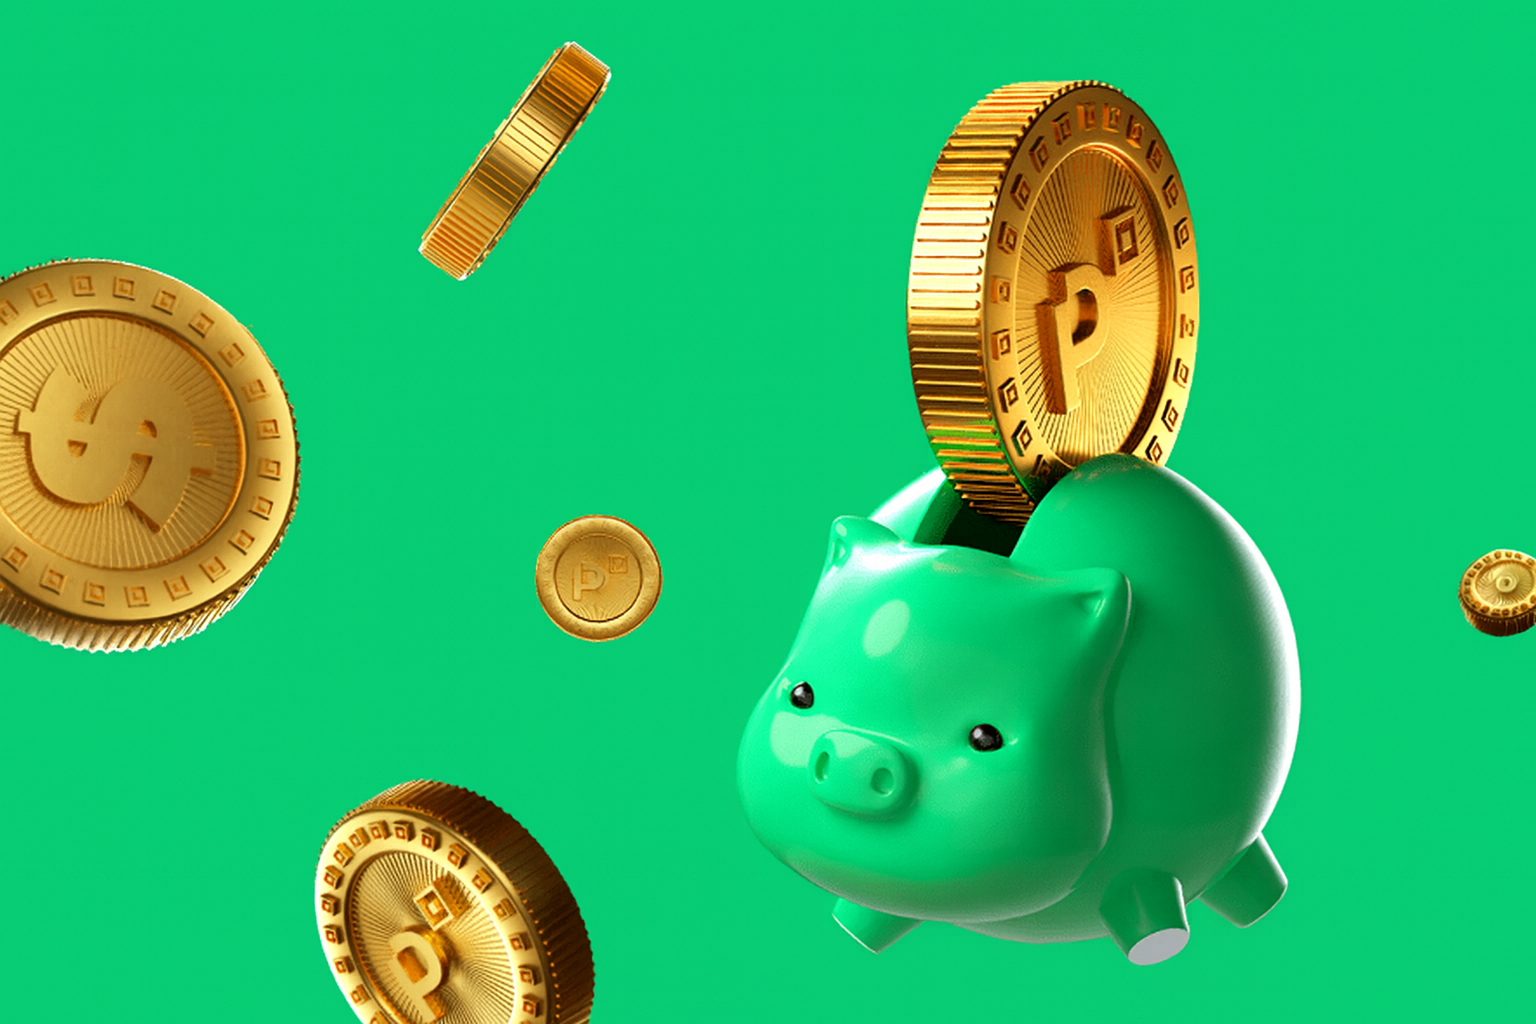
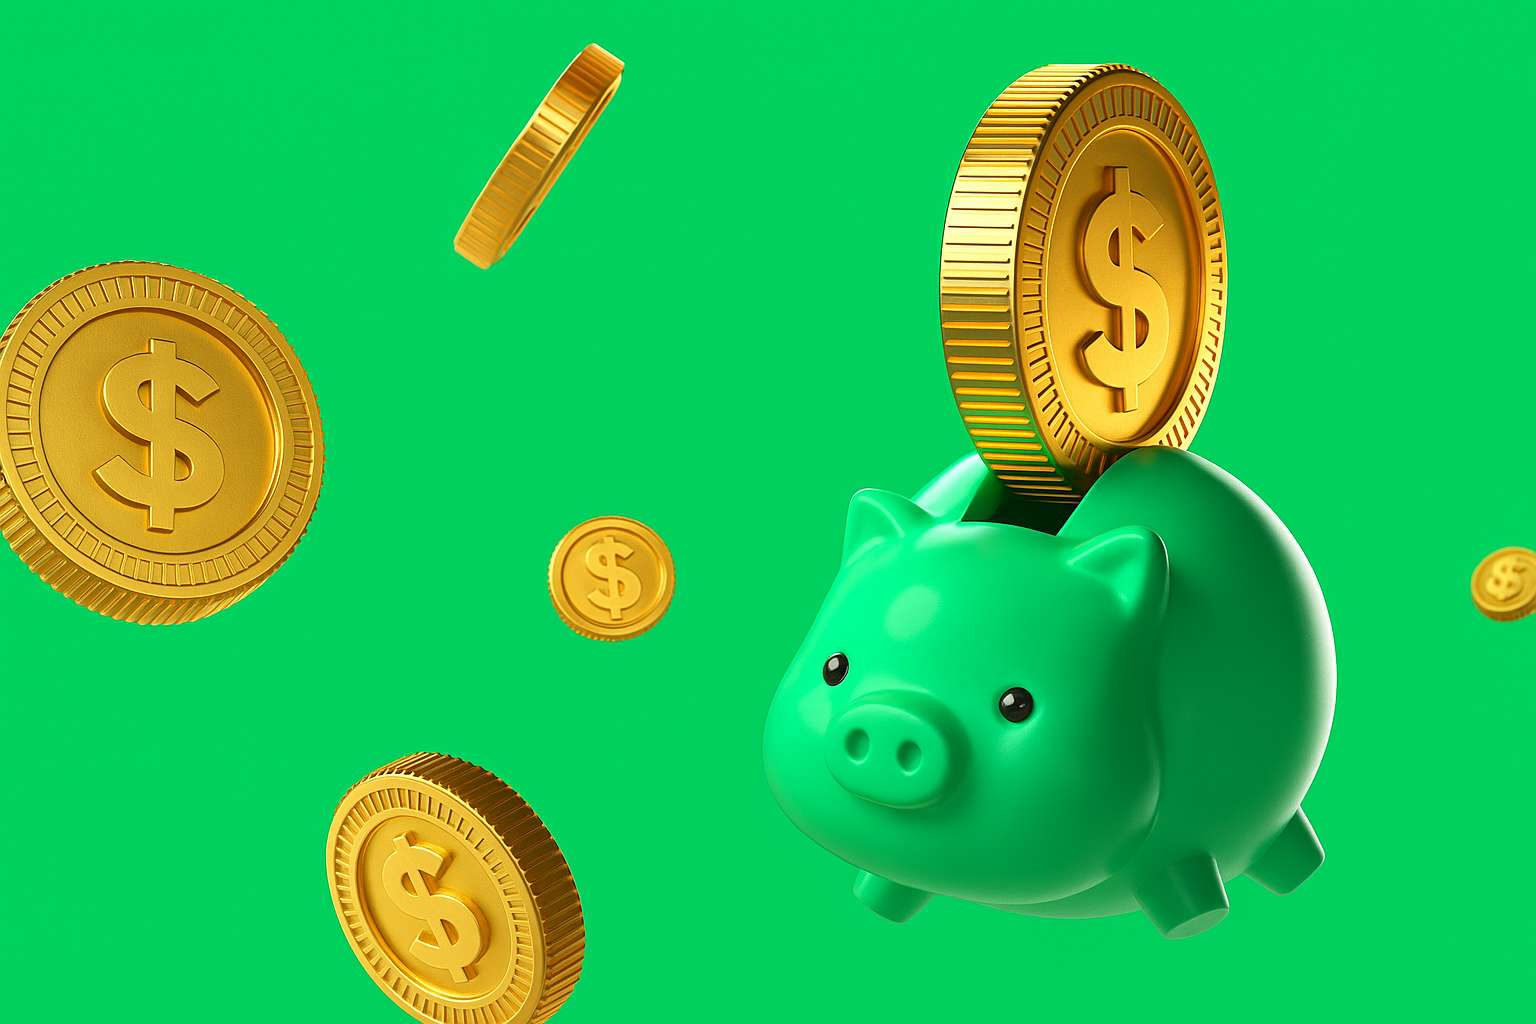
feat: melhorar design da página de Auth
- Trocar ícone Banknote por CircleDollarSign (moeda)
- Melhorar tipografia com font-extrabold e tracking-wide
- Aumentar tamanho dos ícones das funcionalidades
- Substituir emojis por ícones Lucide (TrendingUp, Shield, Zap)
- Remover duplicação de tagline no painel direito
- Ajustar espaçamento do logo VAI DE PIX (mb-4)
- Melhorar hierarquia visual e centralização
- Manter logo VAI DE PIX apenas acima do formulário

diff --git a/src/pages/Auth.tsx b/src/pages/Auth.tsx
@@ -6,7 +6,7 @@ import { Label } from '@/components/ui/label';
 import { Card, CardContent, CardDescription, CardHeader, CardTitle } from '@/components/ui/card';
 import { Tabs, TabsContent, TabsList, TabsTrigger } from '@/components/ui/tabs';
 import { Alert, AlertDescription } from '@/components/ui/alert';
-import { Loader2, Banknote, TrendingUp, Shield, Zap } from 'lucide-react';
+import { Loader2, CircleDollarSign, TrendingUp, Shield, Zap, PiggyBank } from 'lucide-react';
 import { useToast } from '@/hooks/use-toast';
 
 export default function Auth() {
@@ -83,38 +83,37 @@ export default function Auth() {
       <div className="hidden lg:flex lg:flex-1 bg-gradient-primary text-primary-foreground pl-32 pr-16 py-12 flex-col justify-center relative overflow-hidden">
         {/* Background Image */}
         <div 
-          className="absolute inset-0 bg-cover bg-center bg-no-repeat opacity-70"
+          className="absolute inset-0 bg-center bg-no-repeat opacity-100"
           style={{
-            backgroundImage: "url('/piggy-bank-background.jpg.png')"
+            backgroundImage: "url('/piggy-bank-background.jpg.png')",
+            backgroundSize: "100%"
           }}
         />
         {/* Gradient Overlay */}
         <div className="absolute inset-0 bg-gradient-to-br from-green-500/80 via-green-600/70 to-emerald-600/80" />
         
         <div className="max-w-lg space-y-8 relative z-10">
-          <div className="flex items-center gap-3">
-            <Banknote className="h-10 w-10 drop-shadow-lg" />
-            <h1 className="text-3xl font-bold text-white drop-shadow-lg">VAI DE PIX</h1>
-          </div>
-          
           <div className="space-y-6">
-            <h2 className="text-4xl font-bold leading-tight text-white drop-shadow-lg">
+            <h2 className="text-4xl font-black leading-tight text-white drop-shadow-lg tracking-tight">
               Domine suas finanças com inteligência
             </h2>
-            <p className="text-xl text-white/95 drop-shadow-md">
+            <p className="text-2xl text-white/95 drop-shadow-md font-medium leading-relaxed">
               Sistema completo de gestão financeira pessoal com análises inteligentes e automações.
             </p>
           </div>
           
-          <div className="space-y-4">
-            <div className="flex items-center gap-3">
-              <span className="text-lg text-white drop-shadow-md">📊 Relatórios detalhados para decisões melhores</span>
+          <div className="space-y-6">
+            <div className="flex items-center gap-4">
+              <TrendingUp className="h-6 w-6 text-white drop-shadow-md flex-shrink-0" />
+              <span className="text-xl text-white drop-shadow-md font-medium">Relatórios detalhados para decisões melhores</span>
             </div>
-            <div className="flex items-center gap-3">
-              <span className="text-lg text-white drop-shadow-md">🔒 Dados 100% seguros e criptografados</span>
+            <div className="flex items-center gap-4">
+              <Shield className="h-6 w-6 text-white drop-shadow-md flex-shrink-0" />
+              <span className="text-xl text-white drop-shadow-md font-medium">Dados 100% seguros e criptografados</span>
             </div>
-            <div className="flex items-center gap-3">
-              <span className="text-lg text-white drop-shadow-md">⚡ Automação para ganhar tempo no dia a dia</span>
+            <div className="flex items-center gap-4">
+              <Zap className="h-6 w-6 text-white drop-shadow-md flex-shrink-0" />
+              <span className="text-xl text-white drop-shadow-md font-medium">Automação para ganhar tempo no dia a dia</span>
             </div>
           </div>
         </div>
@@ -123,15 +122,13 @@ export default function Auth() {
       {/* Right Panel - Auth Forms */}
       <div className="flex-1 lg:flex-none lg:w-[500px] flex items-center justify-center p-8">
         <div className="w-full max-w-md space-y-6">
-          {/* Mobile Logo */}
-          <div className="lg:hidden text-center">
-            <div className="flex items-center justify-center gap-2 mb-4">
-              <Banknote className="h-8 w-8 text-primary" />
-              <h1 className="text-2xl font-bold">VAI DE PIX</h1>
+          {/* Logo */}
+          <div className="text-center">
+            <div className="flex items-center justify-center gap-3 mb-4">
+              <CircleDollarSign className="h-10 w-10 text-primary" />
+              <h1 className="text-3xl font-extrabold tracking-wide">VAI DE PIX</h1>
             </div>
-            <p className="text-muted-foreground">
-              Domine suas finanças com inteligência
-            </p>
+
           </div>
 
           <Tabs defaultValue="login" className="w-full">
@@ -143,9 +140,9 @@ export default function Auth() {
             {/* Login Tab */}
             <TabsContent value="login">
               <Card>
-                <CardHeader className="space-y-1">
-                  <CardTitle className="text-2xl text-center">Bem-vindo de volta</CardTitle>
-                  <CardDescription className="text-center">
+                <CardHeader className="space-y-2 text-center">
+                  <CardTitle className="text-3xl font-bold">Bem-vindo de volta</CardTitle>
+                  <CardDescription className="text-base">
                     Entre com suas credenciais para acessar sua conta
                   </CardDescription>
                 </CardHeader>
@@ -204,9 +201,9 @@ export default function Auth() {
             {/* Register Tab */}
             <TabsContent value="register">
               <Card>
-                <CardHeader className="space-y-1">
-                  <CardTitle className="text-2xl text-center">Criar nova conta</CardTitle>
-                  <CardDescription className="text-center">
+                <CardHeader className="space-y-2 text-center">
+                  <CardTitle className="text-3xl font-bold">Criar nova conta</CardTitle>
+                  <CardDescription className="text-base">
                     Preencha os dados abaixo para criar sua conta
                   </CardDescription>
                 </CardHeader>
